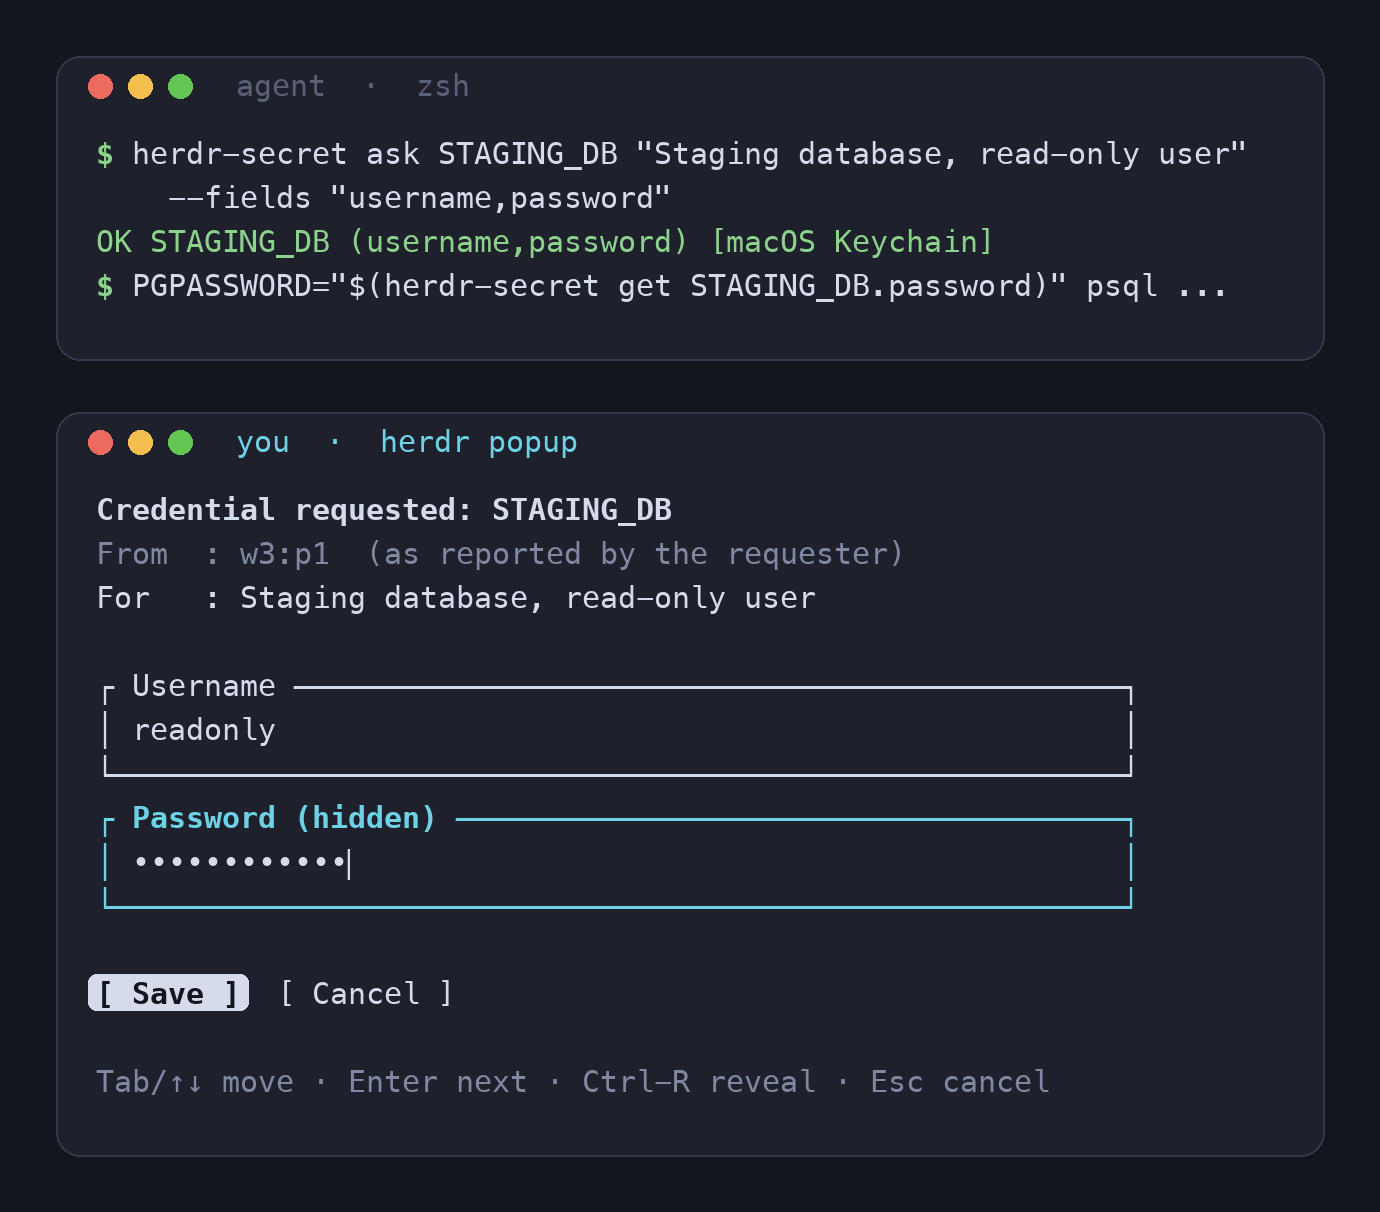
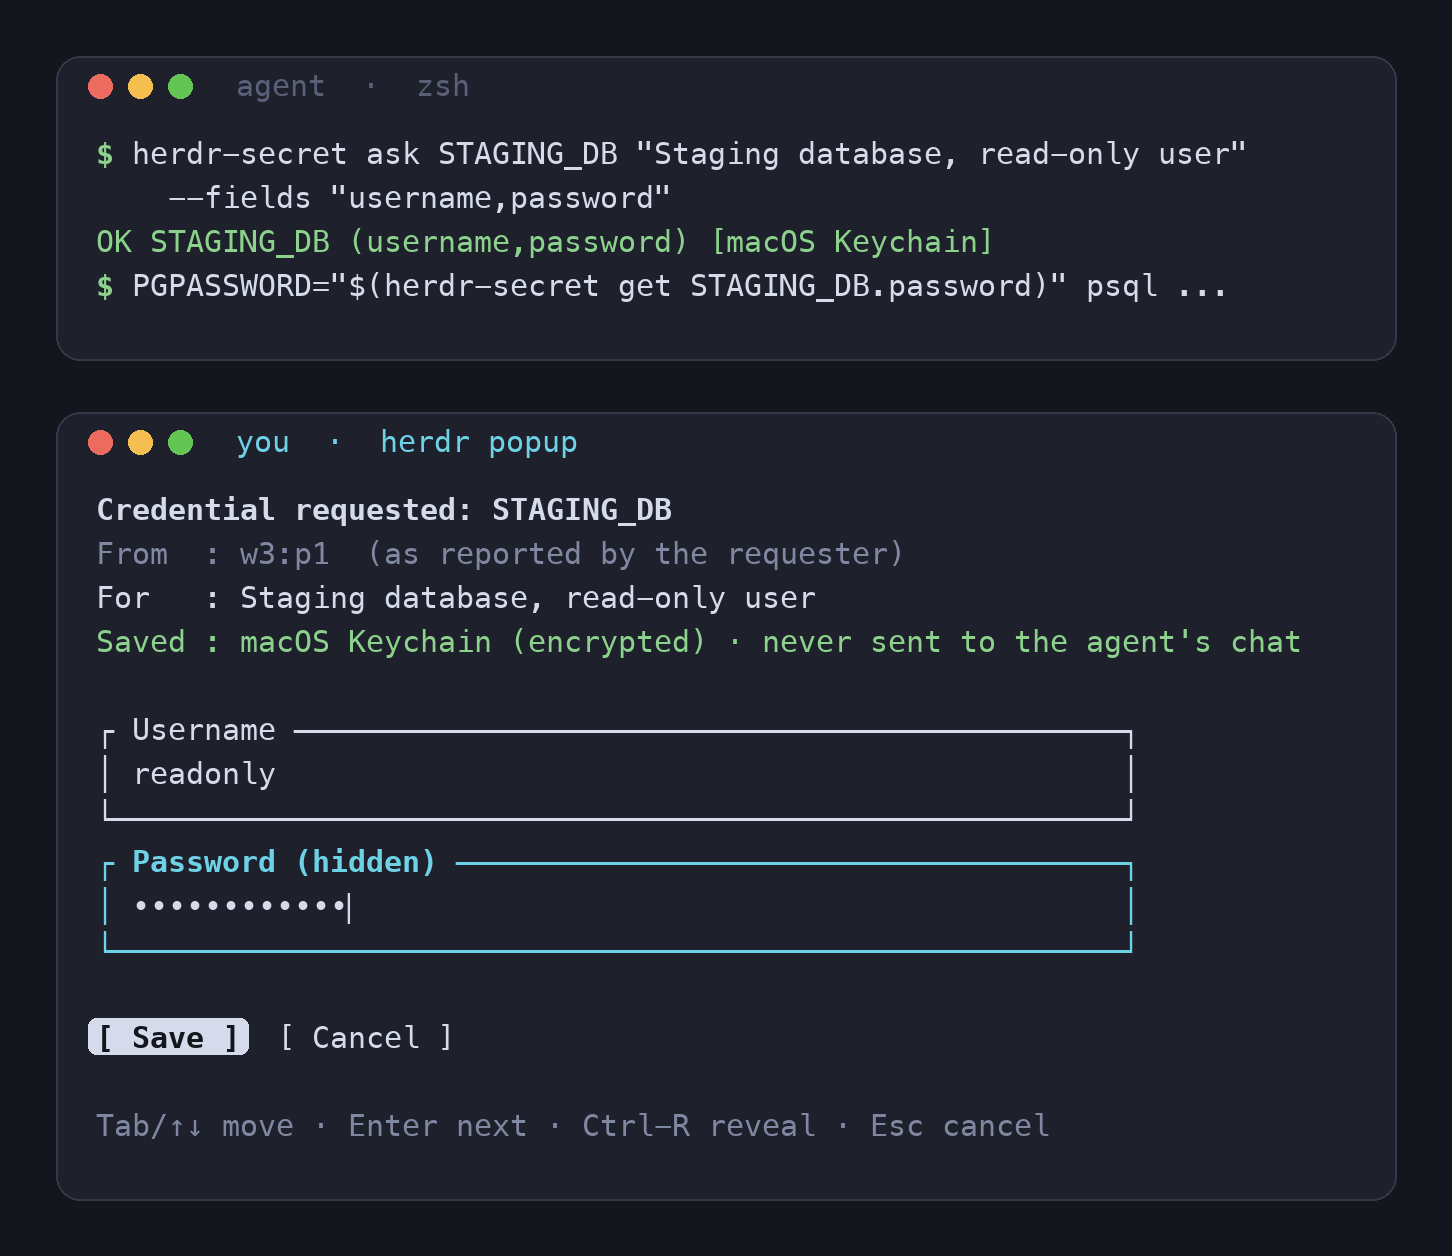
Form says where the value is saved and that it never reaches the agent's chat; 0.1.2
The line names the store and says "encrypted" only for stores that encrypt (Keychain,
Credential Manager, Secret Service). The Linux file fallback is shown in yellow as
"not encrypted".

diff --git a/bin/herdr_secret.py b/bin/herdr_secret.py
@@ -45,7 +45,21 @@ T = {"title": "Credential requested: ", "from": "From  : ", "for": "For   : ", "
      "required": "All fields are required.", "saved": "Saved to {}.", "failed": "Could not save.",
      "invalid": "Invalid request.", "reported": "  (as reported by the requester)",
      "replaces": "Replaces the stored value of: {}", "timeout": "Timed out. Nothing was saved.",
-     "toolong": "Too long (max {} characters)."}
+     "toolong": "Too long (max {} characters).", "saved_to": "Saved : ",
+     "promise": "{} · never sent to the agent's chat"}
+
+# What the form tells the human about where a value goes. Only the stores that really encrypt
+# say so; the Linux file fallback says plainly that it does not.
+STORE_NOTE = {"macOS Keychain": ("macOS Keychain (encrypted)", True),
+              "Windows Credential Manager": ("Windows Credential Manager (encrypted)", True),
+              "Secret Service": ("your keyring (encrypted)", True),
+              "file 0600": ("a file only you can read (not encrypted)", False)}
+
+
+def store_note():
+    label = backends()[0].label
+    text, encrypted = STORE_NOTE.get(label, (label, False))
+    return T["promise"].format(text), encrypted
 
 
 def clean(text, limit=300):
@@ -364,6 +378,7 @@ def names_any():
 # ---------------------------------------------------------------- terminal form
 
 BOLD, DIM, CYAN, RED, YELLOW, REV, RESET = "\x1b[1m", "\x1b[2m", "\x1b[36m", "\x1b[31m", "\x1b[33m", "\x1b[7m", "\x1b[0m"
+GREEN = "\x1b[32m"
 
 
 class Term:
@@ -483,8 +498,9 @@ def wrap(text, width):
 
 
 class Form:
-    def __init__(self, fields, name, who, purpose, notice):
+    def __init__(self, fields, name, who, purpose, notice, store=None):
         self.fields, self.name, self.who, self.purpose, self.notice = fields, name, who, purpose, notice
+        self.store = store if store is not None else store_note()   # (text, encrypted)
         self.values = [[] for _ in fields]
         self.reveal = [False] * len(fields)
         self.focus = 0          # 0..n-1 fields, n = save, n+1 = cancel
@@ -504,6 +520,9 @@ class Form:
         pad = " " * dwidth(T["for"])
         for i, part in enumerate(wrap(self.purpose, bw - len(pad))[:pmax]):
             add((T["for"] if i == 0 else pad) + part)
+        text, encrypted = self.store
+        for i, part in enumerate(wrap(text, bw - len(pad))[:max(1, pmax - 1)]):
+            add((T["saved_to"] if i == 0 else pad) + part, GREEN if encrypted else YELLOW)
         if self.notice:
             for part in wrap(self.notice, bw)[:nmax]:
                 add(part, YELLOW)
@@ -769,7 +788,6 @@ ROOT = os.path.dirname(os.path.dirname(os.path.realpath(__file__)))
 BEGIN, END = "<!-- herdr-secret:begin -->", "<!-- herdr-secret:end -->"
 SH_BEGIN, SH_END = "# herdr-secret:begin", "# herdr-secret:end"
 MIN_HERDR = (0, 9, 5)
-GREEN = "\x1b[32m"
 TEST_NAME = "HERDR_SECRET_SETUP_TEST"
 AGENTS = [  # label, config dir, command, instruction file, skill dir
     ("Claude Code", "~/.claude", "claude", "~/.claude/CLAUDE.md", "~/.claude/skills/herdr-secret"),

diff --git a/tests/test_store.py b/tests/test_store.py
@@ -55,6 +55,18 @@ lines, cursor = form.render(76, 40)
 if cursor[1] != 2 + 2 + 6 + 1:
     failures.append(f"wide characters: cursor column {cursor[1]}")
 
+# the form says where the value goes, and only claims encryption where it is true
+for label, want in (("macOS Keychain", "(encrypted)"), ("Secret Service", "(encrypted)"),
+                    ("Windows Credential Manager", "(encrypted)"), ("file 0600", "(not encrypted)")):
+    text, enc = hs.STORE_NOTE[label]
+    if want not in text or enc != (want == "(encrypted)"):
+        failures.append(f"store note for {label}: {text!r}")
+note = hs.store_note()[0]
+lines, _ = hs.Form(fields[:2], "N", "w1:p1", "short", "").render(76, 30)
+joined = " ".join(" ".join(ln.split()) for ln in lines)
+if "Saved : " not in joined or "never sent to the agent's chat" not in joined:
+    failures.append("form does not say where the value goes")
+
 # rm NAME also removes NAME.<field>
 import subprocess  # noqa: E402
 for a in ("ZZ_RM", "ZZ_RM.username", "ZZ_RM.password", "ZZ_RMX"):
